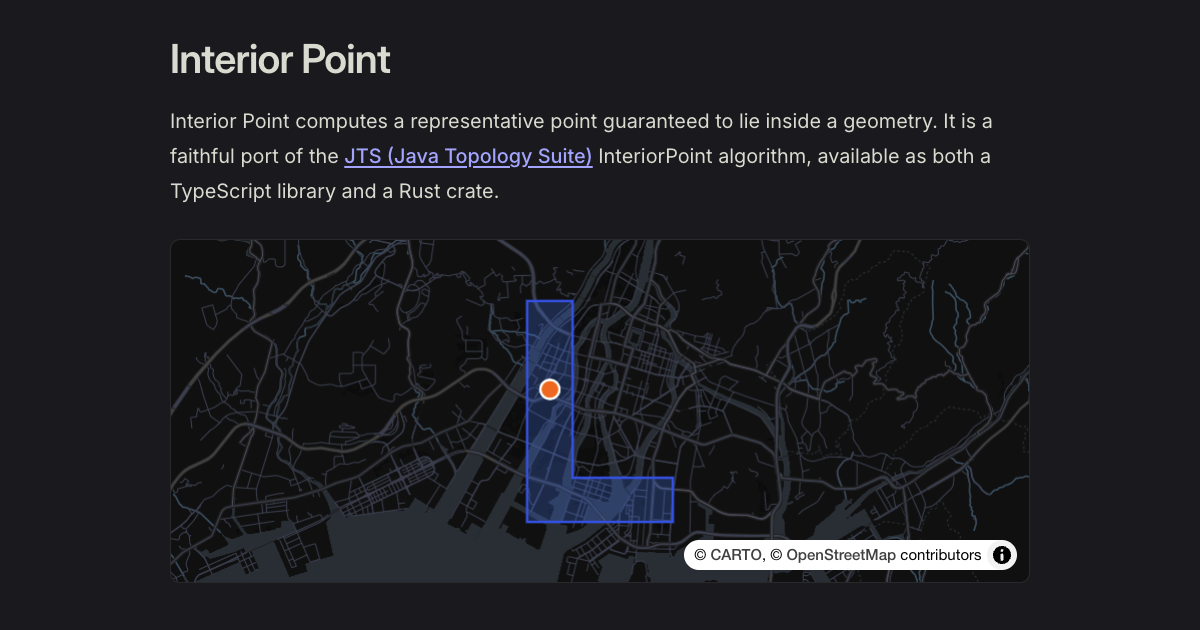
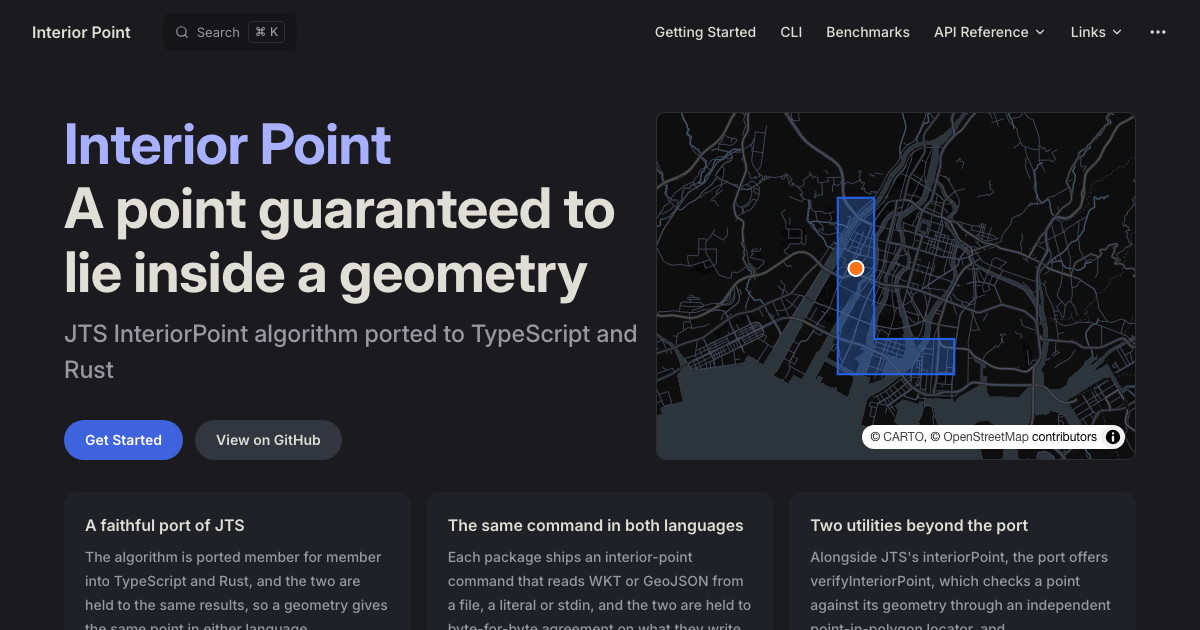
docs: regenerate the og-images and record the script

diff --git a/CLAUDE.md b/CLAUDE.md
@@ -77,6 +77,17 @@ errors but not type errors; the Rust half becomes a real crate under `rs/target/
 and goes through `cargo`, so it catches both. `rs/core/README.md` is exempt because
 `rs/core/src/lib.rs` pulls it in with `include_str!`, making it a doctest already.
 
+### OGP images
+
+`node scripts/og-images.mjs` (`pnpm og`) regenerates the Open Graph images from the real pages
+through Playwright, in dark mode, at 1200x630. It is the one script in `scripts/` that is not a CI
+guard: it needs a browser and a network, so it is run by hand and its output is committed. Its
+targets are `docs`, `benchmark-table` and `benchmark-map-table`; the two benchmark targets publish
+to the same path, which is why `--write` is only accepted beside `--only`. Without `--write` it
+writes to `tmp/og/`. The benchmark targets need `pnpm examples:wasm` to have run, and the script
+stops with that instruction rather than running wasm-pack itself. Only the parsing and path
+resolution are covered by `pnpm test:scripts`; the images themselves are checked by looking at them.
+
 ### CLI
 
 `cargo test --workspace` alone does **not** exercise the Rust CLI: the `cli` feature is off by
